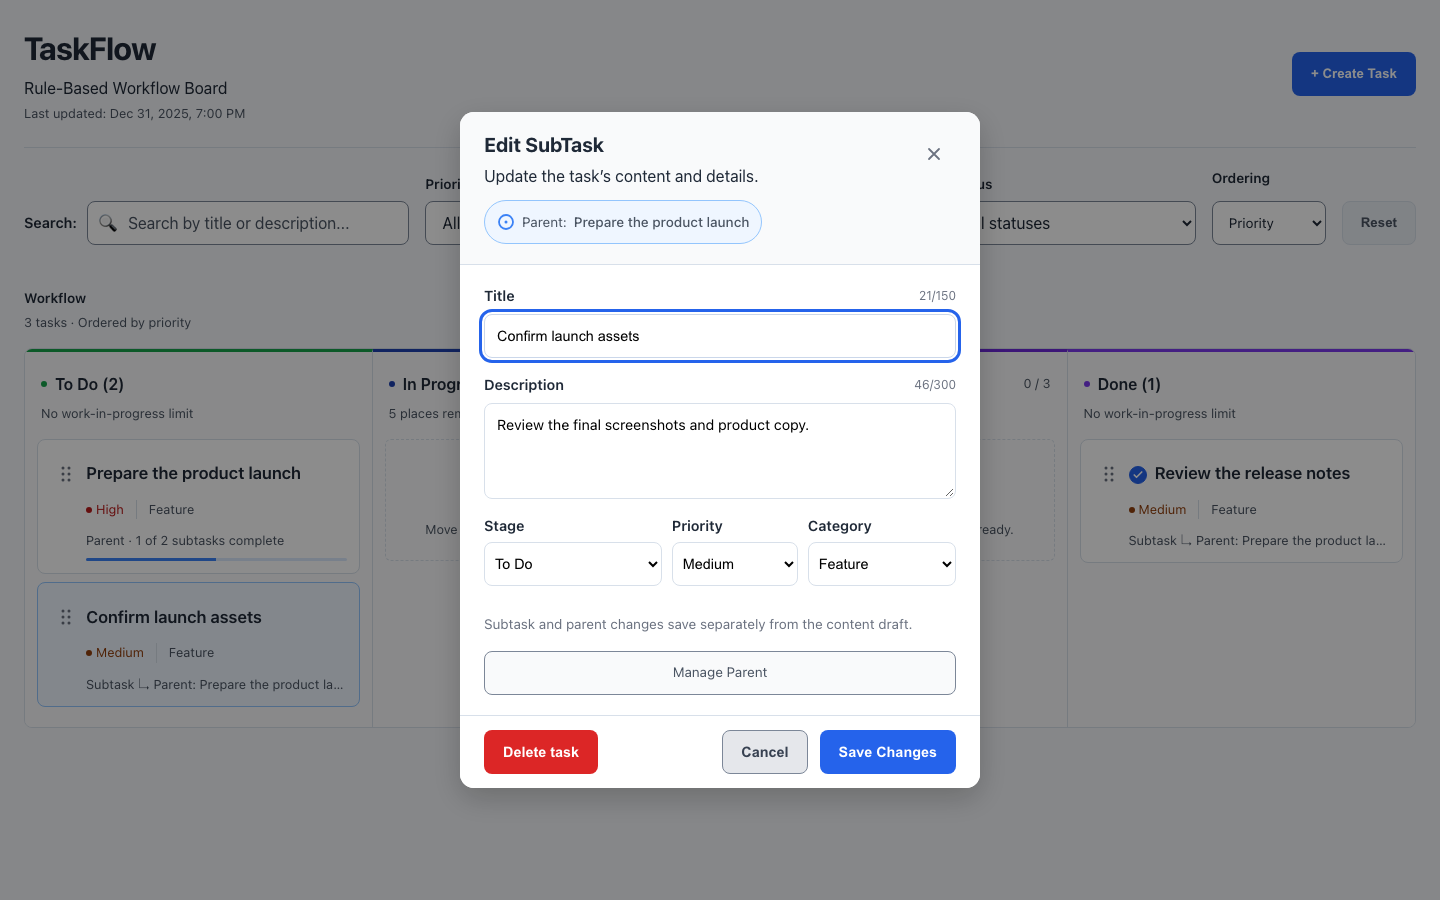
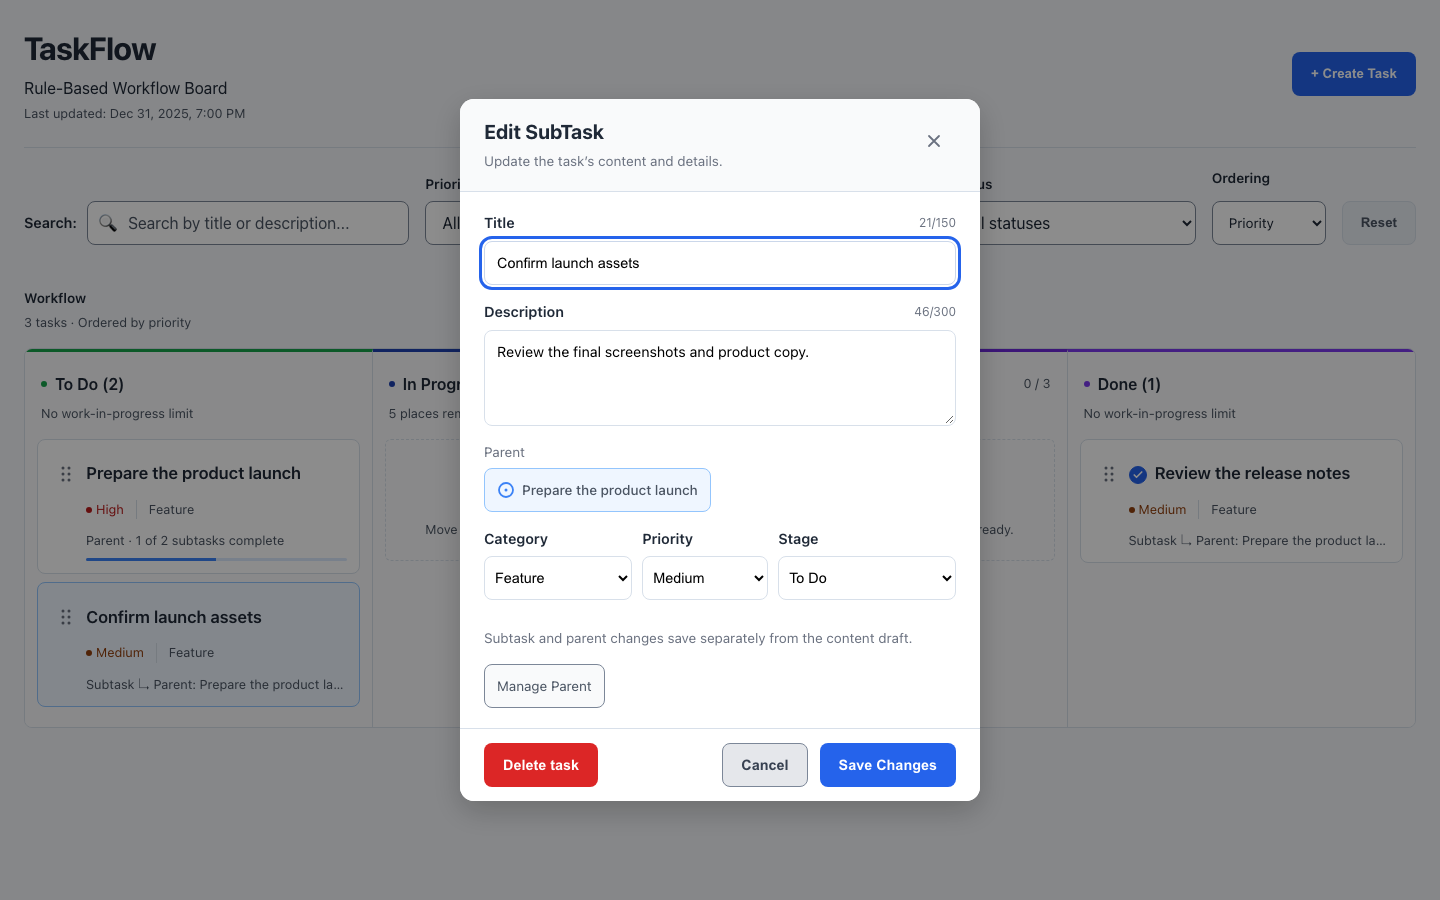
style: group task metadata and parent context consistently

diff --git a/src/components/TaskForm/TaskForm.tsx b/src/components/TaskForm/TaskForm.tsx
@@ -213,7 +213,7 @@ export default function TaskForm({
           <header className="task-form-heading">
             <div><h2 id={`${fieldPrefix}-form-title`}>
               {isEditing ? isSubtask ? "Edit SubTask" : "Edit Task" : parent ? "Add SubTask" : "Create New Task"}
-            </h2><p>{parent ? `Linked to ${parent.title}` : isEditing ? "Update the task’s content and details." : "What needs to get done?"}</p>{linkedParent && <TaskParentLink parent={linkedParent} onOpen={handleOpenTask}/>}</div>
+            </h2><p>{parent ? `Linked to ${parent.title}` : isEditing ? "Update the task’s content and details." : "What needs to get done?"}</p></div>
             <CloseButton label={isEditing ? "Close task editor" : "Close task creation"} onClick={handleRequestClose}/>
           </header>
           <div className="task-form-content">
@@ -268,33 +268,8 @@ export default function TaskForm({
             </small>
           </Field>
 
+          {linkedParent && <TaskParentLink parent={linkedParent} onOpen={handleOpenTask}/>}
           <div className={`task-form-select-row${currentTask && onChangeStage ? " has-stage" : ""}`}>
-          {currentTask && onChangeStage ? <div className="task-form-field"><label htmlFor={`${fieldPrefix}-stage`}>Stage</label>
-            <select id={`${fieldPrefix}-stage`} value={currentTask.status} aria-invalid={invalidField === "stage" || undefined} aria-describedby={invalidField === "stage" ? `${fieldPrefix}-error` : undefined} onChange={event => {
-              if (!isTaskStatus(event.target.value)) return;
-              const failure = onChangeStage(currentTask, event.target.value);
-              if (failure) fail("stage", failure.message);
-              else { setError(""); setInvalidField(null); }
-            }}>{taskStatuses.map(status => <option key={status} value={status}>{statusLabels[status]}</option>)}</select>
-          </div> : null}
-            <div className="task-form-field">
-              <label htmlFor={`${fieldPrefix}-priority`}>Priority</label>
-
-              <select
-                id={`${fieldPrefix}-priority`}
-                aria-invalid={invalidField === "priority" || undefined}
-                aria-describedby={invalidField === "priority" ? `${fieldPrefix}-error` : undefined}
-                value={priority}
-                onChange={(event) =>
-                  setPriority(event.target.value as Priority)
-                }
-              >
-                <option value="low">Low</option>
-                <option value="medium">Medium</option>
-                <option value="high">High</option>
-              </select>
-            </div>
-
             <div className="task-form-field">
               <label htmlFor={`${fieldPrefix}-category`}>Category</label>
 
@@ -315,6 +290,33 @@ export default function TaskForm({
                 <option value="devops">DevOps</option>
               </select>
             </div>
+            <div className="task-form-field">
+              <label htmlFor={`${fieldPrefix}-priority`}>Priority</label>
+
+              <select
+                id={`${fieldPrefix}-priority`}
+                aria-invalid={invalidField === "priority" || undefined}
+                aria-describedby={invalidField === "priority" ? `${fieldPrefix}-error` : undefined}
+                value={priority}
+                onChange={(event) =>
+                  setPriority(event.target.value as Priority)
+                }
+              >
+                <option value="low">Low</option>
+                <option value="medium">Medium</option>
+                <option value="high">High</option>
+              </select>
+            </div>
+
+          {currentTask && onChangeStage ? <div className="task-form-field"><label htmlFor={`${fieldPrefix}-stage`}>Stage</label>
+            <select id={`${fieldPrefix}-stage`} value={currentTask.status} aria-invalid={invalidField === "stage" || undefined} aria-describedby={invalidField === "stage" ? `${fieldPrefix}-error` : undefined} onChange={event => {
+              if (!isTaskStatus(event.target.value)) return;
+              const failure = onChangeStage(currentTask, event.target.value);
+              if (failure) fail("stage", failure.message);
+              else { setError(""); setInvalidField(null); }
+            }}>{taskStatuses.map(status => <option key={status} value={status}>{statusLabels[status]}</option>)}</select>
+          </div> : null}
+
           </div>
 
           {currentTask && <p className="task-form-relationship-note">Subtask and parent changes save separately from the content draft.</p>}

diff --git a/src/components/TaskDetails/TaskDetails.tsx b/src/components/TaskDetails/TaskDetails.tsx
@@ -30,14 +30,15 @@ export default function TaskDetails(props: TaskFormProps & { task: Task; onChang
       <div className="task-details-overlay" onMouseDown={event => { if (event.target === event.currentTarget) onClose(); }}>
         <div ref={ref} className="task-details-panel" role={view === "details" ? "dialog" : undefined} aria-modal={view === "details" ? true : undefined} aria-labelledby={`${id}-title`} tabIndex={-1}>
           {view === "details" && <><header className="task-details-header">
-            <div><p className="board-eyebrow">{parent ? "Subtask details" : "Task details"}</p><h2 id={`${id}-title`} tabIndex={-1} data-initial-focus>{task.title}</h2>{parent && <TaskParentLink parent={parent} onOpen={onOpenTask}/>}</div>
+            <div><p className="board-eyebrow">{parent ? "Subtask details" : "Task details"}</p><h2 id={`${id}-title`} tabIndex={-1} data-initial-focus>{task.title}</h2></div>
             <CloseButton label="Close task details" onClick={onClose}/>
           </header>
           <div className="task-details-content">
+            {parent && <TaskParentLink parent={parent} onOpen={onOpenTask}/>}
             <dl className="task-details-metadata">
-              <div><dt>Stage</dt><dd><span className={`task-status-pill stage-${task.status}`}>{stages[task.status]}</span></dd></div>
-              <div><dt>Priority</dt><dd className={`detail-priority priority-${task.priority}`}>{task.priority[0].toUpperCase() + task.priority.slice(1)}</dd></div>
               <div><dt>Category</dt><dd>{categories[task.category]}</dd></div>
+              <div><dt>Priority</dt><dd className={`detail-priority priority-${task.priority}`}>{task.priority[0].toUpperCase() + task.priority.slice(1)}</dd></div>
+              <div><dt>Stage</dt><dd><span className={`task-status-pill stage-${task.status}`}>{stages[task.status]}</span></dd></div>
             </dl>
             {props.orderingActions && <section className="detail-order-actions" aria-label="Task order">{props.orderingActions(task)}</section>}
             <section aria-labelledby={`${id}-description`}><h3 id={`${id}-description`}>Description</h3><p className="task-details-description">{task.description}</p></section>

diff --git a/src/components/TaskDetails/TaskDetails.test.tsx b/src/components/TaskDetails/TaskDetails.test.tsx
@@ -127,11 +127,11 @@ it("uses one parent badge in details and editing and moves from the editor witho
   await user.click(screen.getByRole("button",{name:"Open task Review release"}));
   const badge=screen.getByRole("button",{name:"Open parent Release plan"});
   expect(badge).toHaveClass("editor-parent-pill");
-  expect(badge.closest("header")).not.toBeNull();
+  expect(badge.closest(".task-parent-field")).not.toBeNull();
   expect(screen.queryByRole("button",{name:"Manage parent of Review release"})).not.toBeInTheDocument();
   await user.click(screen.getByRole("button",{name:"Edit task"}));
   expect(screen.getByRole("button",{name:"Open parent Release plan"})).toHaveClass("editor-parent-pill");
-  expect(screen.getByRole("button",{name:"Open parent Release plan"}).closest("header")).not.toBeNull();
+  expect(screen.getByRole("button",{name:"Open parent Release plan"}).closest(".task-parent-field")).not.toBeNull();
   expect(screen.getByRole("button",{name:"Manage parent of Review release"})).toBeInTheDocument();
   await user.type(screen.getByLabelText("Title")," draft");
   await user.selectOptions(screen.getByLabelText("Stage"),"in-progress");
@@ -152,7 +152,7 @@ it("keeps details read-only, marks only completed children and groups editor con
   expect(detail.queryByRole("img",{name:"Incomplete subtask"})).not.toBeInTheDocument();
   await user.click(detail.getByRole("button",{name:"Edit task"}));
   const editor=within(screen.getByRole("dialog",{name:"Edit Task"}));
-  expect(editor.getAllByRole("combobox").map(control=>(control as HTMLSelectElement).labels?.[0].textContent)).toEqual(["Stage","Priority","Category"]);
+  expect(editor.getAllByRole("combobox").map(control=>(control as HTMLSelectElement).labels?.[0].textContent)).toEqual(["Category","Priority","Stage"]);
   const footer=editor.getByRole("button",{name:"Save Changes"}).closest(".create-task-actions")!;
   expect(within(footer as HTMLElement).getAllByRole("button").map(button=>button.textContent)).toEqual(["Delete task","Cancel","Save Changes"]);
   expect(editor.queryByText("Stage changes save immediately and move this task on the board.")).not.toBeInTheDocument();

diff --git a/src/components/Board/Board.test.tsx b/src/components/Board/Board.test.tsx
@@ -69,7 +69,7 @@ describe("linked task board interactions", () => {
     card("Child work").getByRole("button", { name: "Open task Child work" }).focus();
     await user.keyboard("{Enter}");
     await user.click(screen.getByRole("button", { name: "Edit task" }));
-    expect(screen.getByRole("dialog", { name: "Edit SubTask" })).toHaveTextContent("Parent: Parent work");
+    expect(within(screen.getByRole("dialog", { name: "Edit SubTask" })).getByRole("button", {name:"Open parent Parent work"})).toBeInTheDocument();
   });
 
   it("creates a child from its parent with inherited defaults, independent card, and progress", async () => {
@@ -79,7 +79,7 @@ describe("linked task board interactions", () => {
     screen.getByRole("button", { name: "Add SubTask to Parent work" }).focus();
     await user.keyboard("{Enter}");
     const subtaskForm = within(screen.getByRole("dialog", { name: "Add SubTask" }));
-    expect(screen.getByRole("dialog", { name: "Add SubTask" })).toHaveTextContent("Parent: Parent work");
+    expect(within(screen.getByRole("dialog", { name: "Add SubTask" })).getByRole("button", {name:"Open parent Parent work"})).toBeInTheDocument();
     expect(subtaskForm.getByLabelText("Priority")).toHaveValue("high");
     expect(subtaskForm.getByLabelText("Category")).toHaveValue("bug");
     await user.type(subtaskForm.getByLabelText("Title"), "New linked child");
@@ -213,7 +213,7 @@ describe("linked task board interactions", () => {
     await user.click(card("Parent work").getByRole("button", { name: "Open task Parent work" })); await user.click(screen.getByRole("button", { name: "Edit task" }));
     await user.click(screen.getByRole("button", { name: "Open subtask Child work" }));
     expect(screen.getByLabelText("Search:")).toHaveValue("Parent work");
-    expect(screen.getByRole("dialog", { name: "Edit SubTask" })).toHaveTextContent("Parent: Parent work");
+    expect(within(screen.getByRole("dialog", { name: "Edit SubTask" })).getByRole("button", {name:"Open parent Parent work"})).toBeInTheDocument();
   });
 
   it("unknown drag destinations are ignored and a valid child move keeps context", () => {

diff --git a/e2e/details.spec.ts b/e2e/details.spec.ts
@@ -116,12 +116,12 @@ test("parent context is consistent and editor stage changes move saved work with
   await childLink.click();
   const badge=page.getByRole("button",{name:"Open parent Consistent parent",exact:true});
   await expect(badge).toHaveClass("editor-parent-pill");
-  expect(await badge.evaluate(node=>!!node.closest("header"))).toBe(true);
+  expect(await badge.evaluate(node=>!!node.closest(".task-parent-field"))).toBe(true);
   await expect(page.getByRole("button",{name:"Manage parent of Consistent child",exact:true})).toHaveCount(0);
   const style=await badge.evaluate(node=>({background:getComputedStyle(node).backgroundColor,border:getComputedStyle(node).borderRadius}));
   await page.getByRole("button",{name:"Edit task",exact:true}).click();
   await expect(badge).toHaveClass("editor-parent-pill");
-  expect(await badge.evaluate(node=>!!node.closest("header"))).toBe(true);
+  expect(await badge.evaluate(node=>!!node.closest(".task-parent-field"))).toBe(true);
   expect(await badge.evaluate(node=>({background:getComputedStyle(node).backgroundColor,border:getComputedStyle(node).borderRadius}))).toEqual(style);
   await expect(page.getByRole("button",{name:"Manage parent of Consistent child",exact:true})).toBeVisible();
   const editor=page.getByRole("dialog",{name:"Edit SubTask",exact:true});

diff --git a/src/components/TaskParentLink/TaskParentLink.tsx b/src/components/TaskParentLink/TaskParentLink.tsx
@@ -1,8 +1,8 @@
 import type { Task } from "../../domain/task/Task";
 import "./TaskParentLink.css";
 export default function TaskParentLink({ parent, onOpen }: { parent: Task; onOpen: (task: Task) => void }) {
-  return <button type="button" className="editor-parent-pill" onClick={() => onOpen(parent)} aria-label={`Open parent ${parent.title}`} title={`Parent: ${parent.title}`}>
+  return <div className="task-parent-field"><span>Parent</span><button type="button" className="editor-parent-pill" onClick={() => onOpen(parent)} aria-label={`Open parent ${parent.title}`} title={`Parent: ${parent.title}`}>
     <svg className={`parent-pill-icon${parent.status === "done" ? " is-complete" : ""}`} width="18" height="18" viewBox="0 0 18 18" aria-hidden="true"><circle cx="9" cy="9" r="7" fill="none" stroke="currentColor" strokeWidth="1.8"/><circle cx="9" cy="9" r="1.5" fill="currentColor"/></svg>
-    <span>Parent: </span><span className="parent-pill-title">{parent.title}</span>
-  </button>;
+    <span className="parent-pill-title">{parent.title}</span>
+  </button></div>;
 }

diff --git a/src/components/TaskDetails/TaskDetails.css b/src/components/TaskDetails/TaskDetails.css
@@ -26,7 +26,8 @@
   .task-details-panel { height: calc(100dvh - 16px); border-radius: var(--radius-panel) var(--radius-panel) 0 0; }
   .task-details-header, .task-details-content { padding: var(--space-4); }
   .task-details-footer { padding: var(--space-3) var(--space-4); }
-  .task-details-metadata { grid-template-columns: repeat(2, minmax(0, 1fr)); }
+  .task-details-metadata { grid-template-columns: 1fr .9fr 1.25fr; gap: 8px; }
+  .task-details-metadata dd { font-size: var(--font-size-label); }
   .task-details-children li { flex-wrap: wrap; padding: var(--space-2) 0; }
 }
 @media (max-height: 450px) { .task-details-header { padding: var(--space-3); } .task-details-panel { height: 100dvh; } }

diff --git a/src/components/TaskForm/TaskForm.css b/src/components/TaskForm/TaskForm.css
@@ -195,7 +195,7 @@
   .task-editor-dialog .create-task-actions { padding: 8px 16px; }
 }
 
-.task-editor-dialog .task-form-select-row.has-stage { grid-template-columns: 1.2fr .85fr 1fr; gap: 10px; }
+.task-editor-dialog .task-form-select-row.has-stage { grid-template-columns: 1fr .85fr 1.2fr; gap: 10px; }
 .task-editor-dialog .has-stage select { padding: 8px 6px; }
 .task-editor-dialog .editor-delete-action { margin-right: auto; }
 @media (max-width: 600px) {

diff --git a/src/components/TaskParentLink/TaskParentLink.css b/src/components/TaskParentLink/TaskParentLink.css
@@ -31,4 +31,6 @@
   text-align: left;
   font-weight: var(--font-weight-medium);
 }
-.editor-parent-pill { margin-top: var(--space-3); }
+.task-parent-field { display: flex; flex-direction: column; align-items: flex-start; gap: 6px; min-width: 0; }
+.task-parent-field > span { color: var(--color-text-muted); font-size: var(--font-size-support); }
+.task-parent-field .editor-parent-pill { margin-top: 0; border-radius: var(--radius-control); }

diff --git a/docs/v2-task-details.md b/docs/v2-task-details.md
@@ -57,3 +57,9 @@ Final layout verification: 467 unit/component tests in 43 files passed; the fina
 ## Compact related-work actions
 
 When an edited task can both create a child and manage its parent, Add SubTask and Manage Parent share a compact row with natural button widths. Eligibility remains unchanged: existing parents retain child creation within their list, and linked subtasks retain parent management only. Verified alignment, 44px targets and both dialog actions at 1440, 390 and 320px against the production build; the 21 existing Board relationship tests, lint, strict TypeScript, build and diff checks passed. [Desktop row](images/v2-task-details/desktop-related-actions.png) · [Mobile row](images/v2-task-details/mobile-related-actions.png).
+
+## Metadata order and parent field
+
+Owner review settled on Category → Priority → Stage for task details and editing (creation uses Category → Priority). Linked tasks show Parent immediately above that row as a matching labeled field, using the same navigation control in details and editing. The parent title no longer crowds the heading. A separate parent row preserves room for long titles and keeps mobile metadata readable instead of squeezing four fields together. Stage remains read-only in details and editable only in the editor; all previous action eligibility and draft/movement rules are retained.
+
+Metadata-order verification: 30 affected component tests and 12 desktop/mobile detail browser journeys passed. Four long-content/row-layout checks were repeated after the final mobile three-column adjustment. Lint, strict TypeScript, build and diff checks passed. Synthetic preview checks also retained aligned related-work buttons and working actions at 1440, 390 and 320px. Screenshots were refreshed from the final build.
